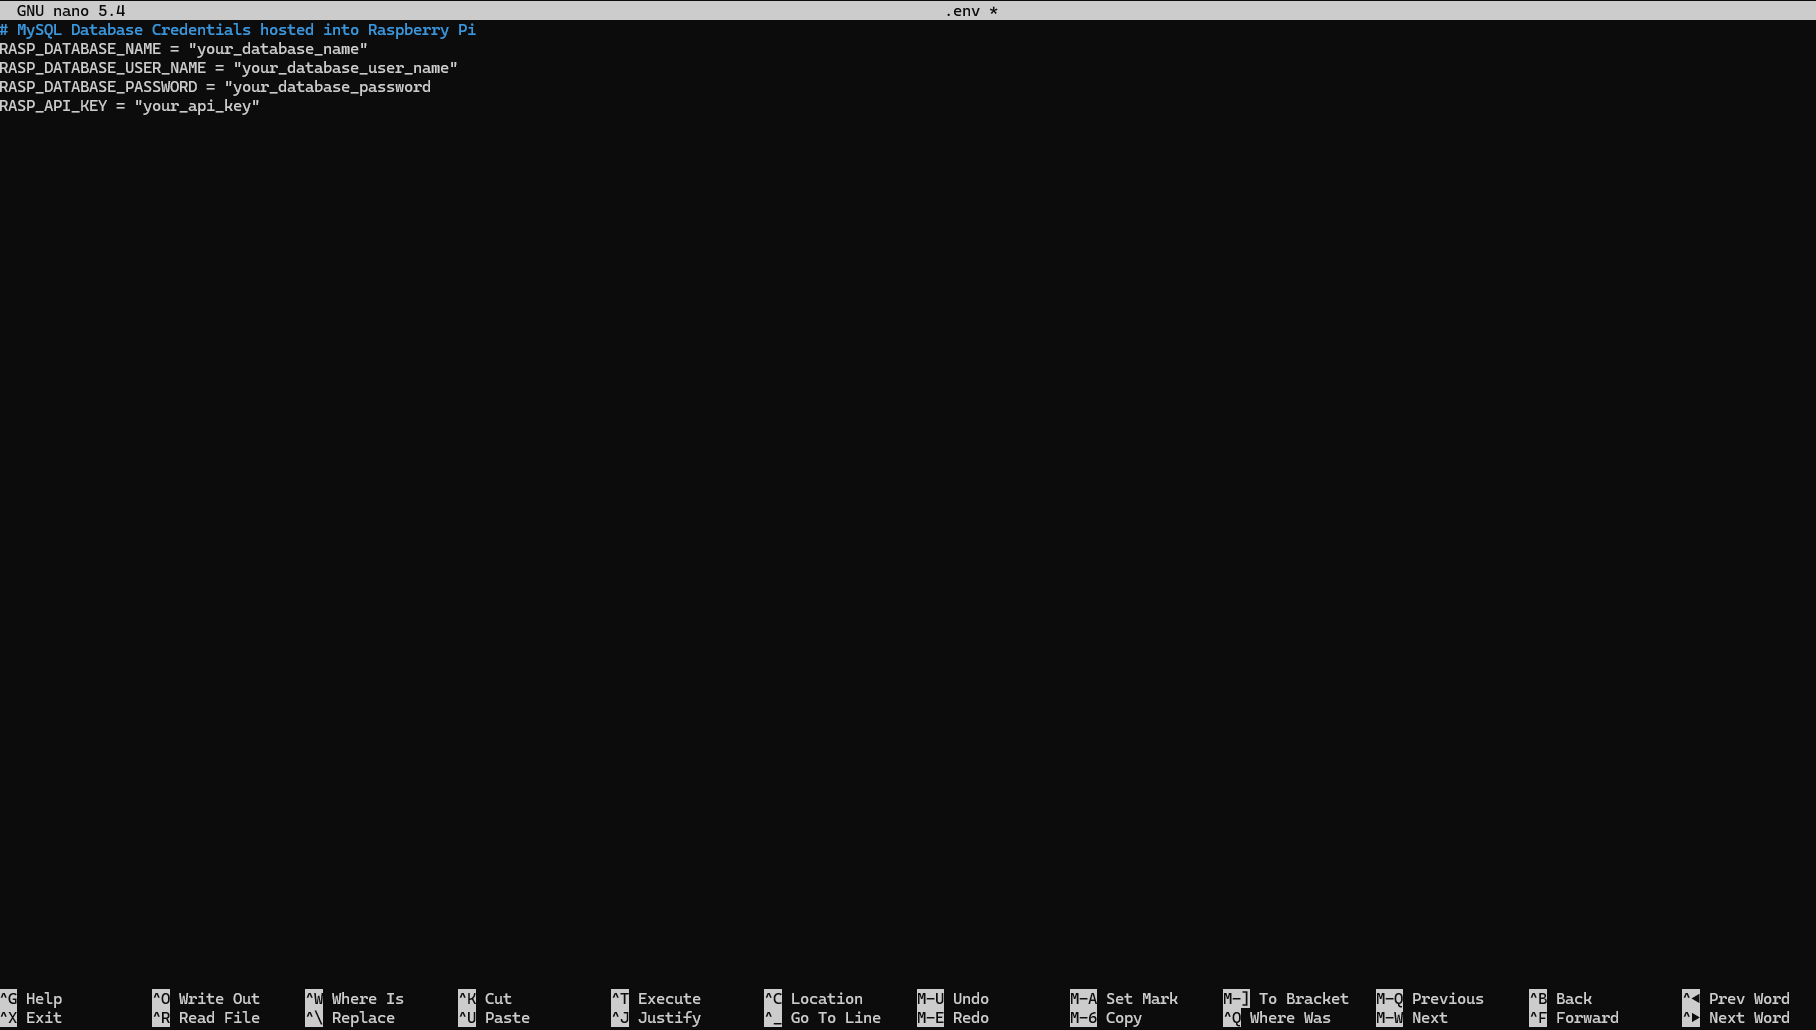
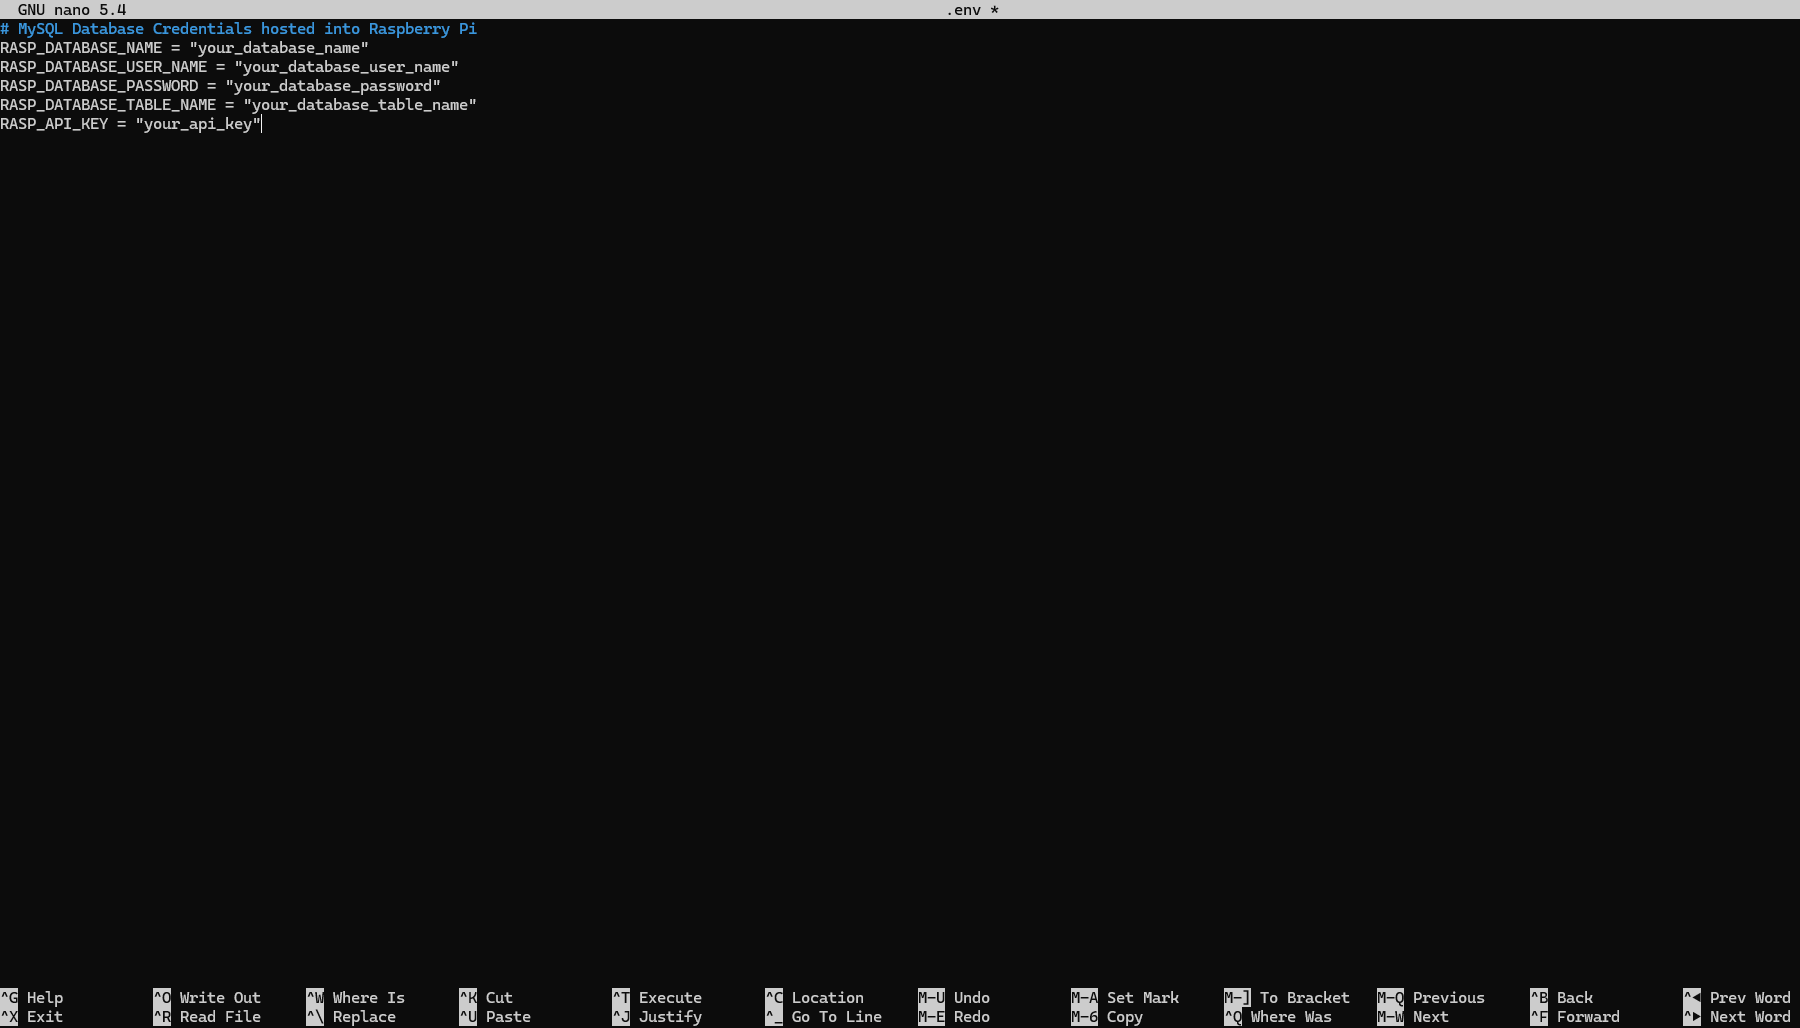
correction on image nano_dot_env.png

diff --git a/README.md b/README.md
@@ -100,29 +100,29 @@ You'll see the message below and the newly created table:
 
 ![phpmyadmin_table_created](images/phpmyadmin_table_created.png)
 
-If we click on the table, we can see its columns, but of course, the table is empty because no data has been inputted or sent yet.
+If we click on the table, we can see its columns. The table is empty because no data has been inputted or sent yet.
 
 ![phpmyadmin_empty_table](images/phpmyadmin_empty_table.png)
 
 ## Creating The Files Responsible to Deal With The Data Sent By The ESP32
 
-Now we will create the files in the server side, which will be responsible to receive the data comming from ESP32 via HTTP POST method and save it into the database. To do this, open the terminal and foollow the steps below.
+Now, we will create the files on the server side, which will be responsible for receiving the data coming from ESP32 via the HTTP POST method and saving it into the database. To do this, open the terminal and follow the steps below.
 
-- Connet to the Raspberry Pi through ssh:
+- Connect to the Raspberry Pi through ssh:
 
     **command** 
     
     ssh raspberrypi_user@your_raspberrypi_IP
 
-    In my case, the **raspberrypi_user = pi** and **your_raspberrypi_IP = raspberrypi** or you may replace by the actual IP number address like 192.168.*.* and so on.
+    In my case, the **raspberrypi_user = pi** and **your_raspberrypi_IP = raspberrypi** or you may replace with the actual IP number address like 192.168.*.** and so on.
 
-- Go to the followin directory:
+- Go to the following directory:
 
     **command**
 
     pi@raspberrypi:~ $ cd /var/www/html
 
-- Now we will create the **.env** file to store the credentials and other sensible information of the sistem using **nano** text enviorement:
+- Create the **.env** file to store the credentials and other sensible information about the system using **nano** text environment:
 
     **command**
 
@@ -132,16 +132,17 @@ Now we will create the files in the server side, which will be responsible to re
 
     ![gnu_nano_editor](images/gnu_nano_editor.png)
 
-    There you will create the enviroment variables we will call in *php* scripts
-    which will connect with the database and will hold the API_KEY we will generate to give some kind of security level between data transfer between the ESP32 and the LAMP server running on the Raspberry PI.
+    Create the environment variables we will call in *php* scripts
+    which will connect with the database and store the API_KEY we will generate to have some security level between the ESP32 and the LAMP server running on the Raspberry PI.
 
     So, in the .env file you will enter the following text lines:
 
     ~~~~
         # MySQL Database Credentials hosted into Raspberry Pi
-        RASP_DATABASE_NAME = "your_database_name" 
+        RASP_DATABASE_NAME = "your_database_name"
         RASP_DATABASE_USER_NAME = "your_database_user_name"
-        RASP_DATABASE_PASSWORD = "your_database_password
+        RASP_DATABASE_PASSWORD = "your_database_password"
+        RASP_DATABASE_TABLE_NAME = "your_database_table_name"
         RASP_API_KEY = "your_api_key"
     ~~~~
 
